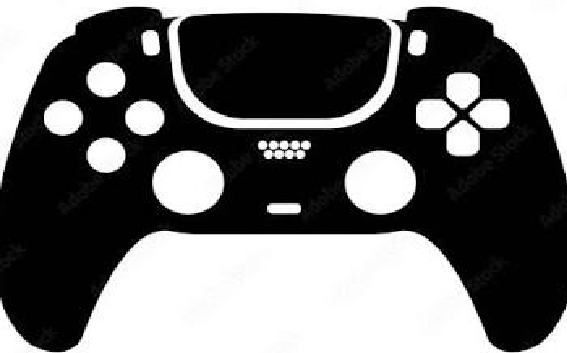
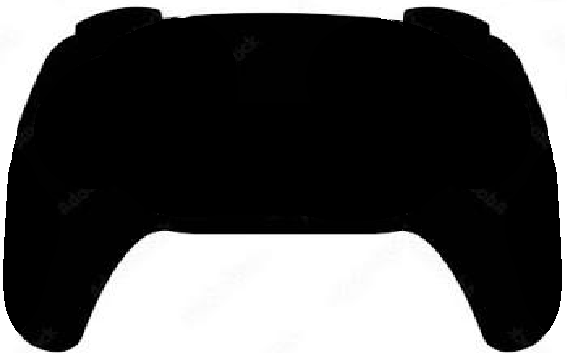
added ps5

diff --git a/device_api.js b/device_api.js
@@ -34,6 +34,7 @@ const Controllers =
     { file:"pippin", 	   name:"Attmark Pippin" },
     { file:"playstation",  name:"Sony PlayStation" },
     { file:"playstation4", name:"Sony PlayStation 4" },
+    { file:"playstation5", name:"Sony PlayStation 5" },
     { file:"saturn", 	   name:"Sega Saturn" },
     { file:"saturnanalog", name:"Sega Saturn 3d Stick" },
     { file:"supernintendo",name:"Super Nintendo" },
@@ -136,6 +137,7 @@ async function selectDevice()
 		let name =  Controllers.find(c => c.file === currentController)?.name;
 		//name patcher, 
 		console.log("Controller id: " + hid.vendorId + " | " + hid.productId); 
+		if (hid.vendorId == 0x054c && hid.productId == 0x0ce6) currentController = name = "playstation5";	
 		if (hid.vendorId == 0x054c && hid.productId == 0x05c4) currentController = name = "playstation4";
 		if (hid.vendorId == 0x054c && hid.productId == 0x0268) currentController = name = "playstation";
 		if (hid.vendorId == 0x045e && hid.productId == 0x02ff) currentController = name = "xboxone";
